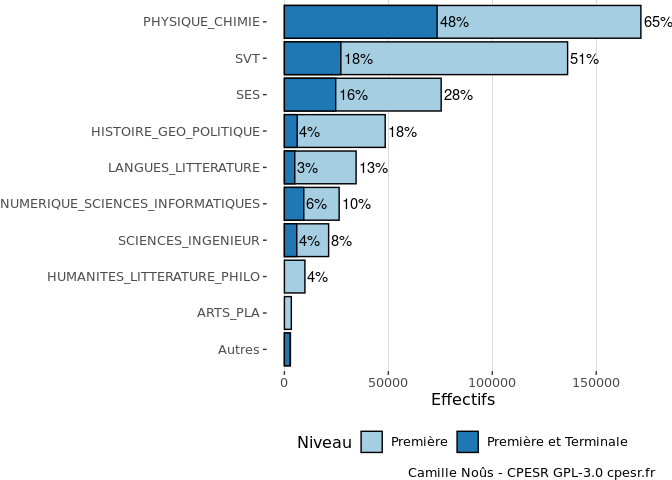
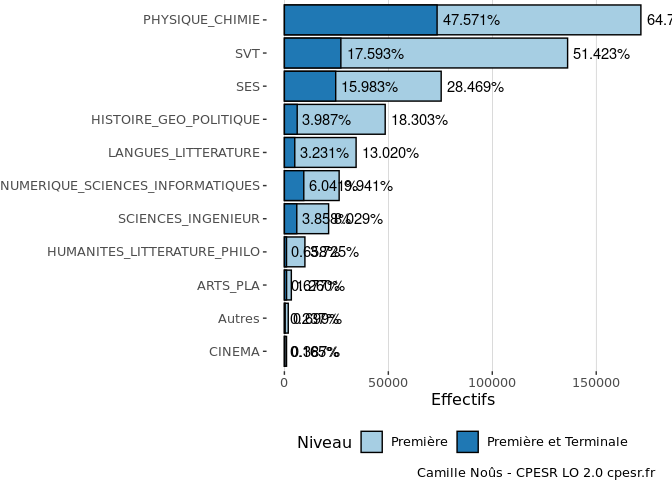
Ajout fonctions SpéLycées

diff --git a/SpécialitésLycée/SpécialitésLycée.md b/SpécialitésLycée/SpécialitésLycée.md
@@ -8,12 +8,13 @@ Les données accompagnent les notes de la DEPP :
   - <https://www.education.gouv.fr/choix-de-trois-specialites-en-premiere-generale-la-rentree-2019-15-combinaisons-pour-80-des-eleves-3245>
   - <https://www.education.gouv.fr/la-rentree-2020-les-eleves-de-terminale-precisent-leur-choix-de-parcours-307016>
 
-### Test MATHS
+### Test Maths
 
     ## `summarise()` regrouping output by 'Niveau' (override with `.groups` argument)
 
-![](SpécialitésLycée_files/figure-gfm/stat.global-1.png)<!-- -->
+![](SpécialitésLycée_files/figure-gfm/maths.global-1.png)<!-- -->
 
+    ## `summarise()` ungrouping output (override with `.groups` argument)
     ## `summarise()` ungrouping output (override with `.groups` argument)
 
     ## `summarise()` regrouping output by 'Niveau' (override with `.groups` argument)
@@ -21,6 +22,4 @@ Les données accompagnent les notes de la DEPP :
 
     ## Warning: Ignoring unknown parameters: direction
 
-    ## Warning: Removed 3 rows containing missing values (geom_text).
-
-![](SpécialitésLycée_files/figure-gfm/stat.spec-1.png)<!-- -->
+![](SpécialitésLycée_files/figure-gfm/maths.cospe-1.png)<!-- -->
